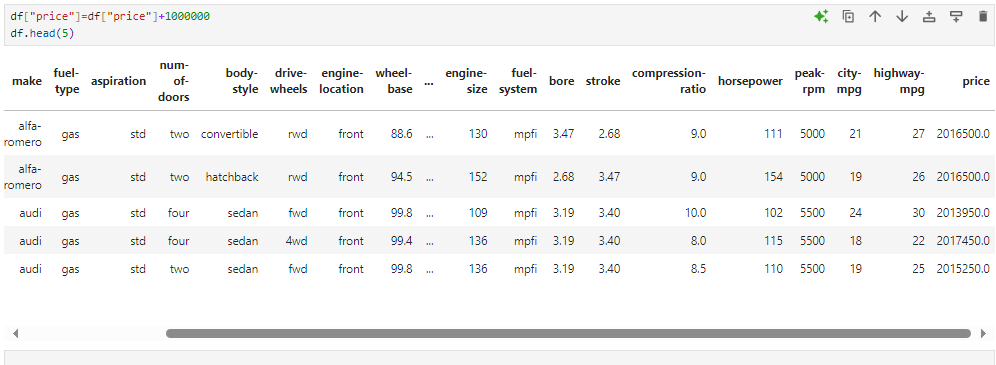
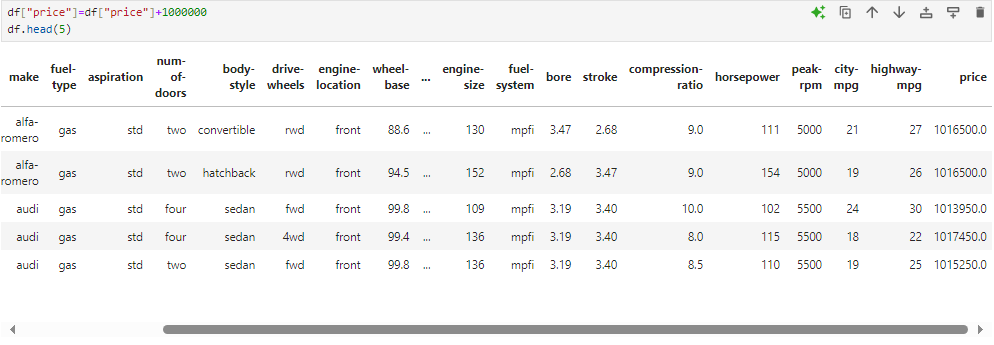
Added chapter 2

diff --git a/Chapter2.2.md b/Chapter2.2.md
@@ -1,0 +1,43 @@
+# 🌟 Chapter 2: Dealing with Missing Values in Python
+
+The missing values occur when no value is stored for a variable in the observation. In the displayed dataframe, they appear as "?", "N/A", 0 or just a blank cell. In the below representation it appears as "?".  
+![?](image-14.png)  
+
+### How to deal with missing data?
+ **Check with the data collection source if the missing data value is available**
+ **Drop/ Remove the data containing missing values:**
+ - drop the variable or just  
+ - drop the data entry  
+ **Replacing the data** (better option): But it can be less accurate as we have to guess for the value at the entry. Thus techniques can be:
+ - replace it with an average of entire variable (i.e. column). 
+Eg. Like if the average of the values in Normalizes losses is 170, we can replace them with 170.  
+ - replace it based on frequency  
+But what if the values can't be averaged, like with the categorical variables like fuel-type, that doesn't have a numerical data. In such case, we can use the "mode" of the data variable, i.e the most common of the fuel-type across the column, eg gasoline.  
+ - replace it based on other funcctions:  
+ Analysing the other data variables, we can just assign the general possible value for the missing variable.  
+ **Leave it as the missing data**  
+Sometimes, leaving the missing data as it is benificial for certain operations or may not be a major issue.  
+
+### Dropping a missing value  
+This is done using the `dropna()` function. Using it, we can drop an entire row or column consisting of missing value of the desired data variable. For eg., since we're going to analyze the price model in the upcoming content, let's delete the row that has missing value for the data variable `price`. For deleting all the rows or columns with missing values, we have to specify the axis number.  
+For rows, `axis=0`.  
+For columns, `axis=1`.  
+Thus to delete all the rows in a dataframe with missing values, we perform:  
+`df.dropna(subset=["price"], axis=0, inplace=True)`  
+
+If one just wants to return a dataframe with no missing values without altering the originial dataframe altogether (i.e. just returning a copy of modified df), we can avoid the `inplace=True` attribute.  
+
+In some cases, If the placeholder is "`?`" instead of "`NaN`", like in my case, we cannot use the `dropna()` function thus we first need to run the following command.  
+`df.replace({"price": "?"}, pd.NA, inplace=True)`  
+![Before](image-15.png)  
+![Later](image-16.png)  
+
+### Replacing the missing value
+Instead of just dropping the data variables with missing values, filling the elements with missing value with an average value of the certain data vaiable is both convenient and harmless in most cases. To replace the values we use the following syntax for the `replace()` function:  
+`dataframe.replace(missing_value,new_value)`  
+But for that, we need to first assign the mean to a variable `mean`. But before that check with df.dtypes that `normalized-losses`, even though numeric, is denoted as an object. First, by converting it to a numeric data,we find the mean and we replace the missing values by mean as as:  
+`df["normalized-losses"] = df["normalized-losses"].replace(pd.NA, mean)`  
+For some reason, if the above function doesn't work properly, a more specific function to handle the missing values called the `fillna()` is used.  
+`df["normalized-losses"] = df["normalized-losses"].fillna(mean)`
+
+![replace/fillna](image-17.png)

diff --git a/Chapter2.1.md b/Chapter2.1.md
@@ -1,0 +1,20 @@
+# 🌌 Chapter 1: Pre-processing Data in Python
+---
+This module focuses on data preprocessing. It is the process of converting data from one raw form into another format, in order to prepare the data for further analysis after importing. Thus, it is an important step. It is also called as Data Cleaning or Data Wrangling.  
+The learning objectives are:
+- Identifying and handling the missing values, i.e empty entries.
+- Data Formatting: Converting the data of different formats or units into the standardized one using Pandas.
+- Data normalization: Bringing all the data in the similar range for meaningful comparison (using centering / scaling).
+- Data Binning: Creating bigger categories for a set of numerical values. Useful to compare the groups of data.
+- Will see about categorial variables and converting them to numerical values. Useful to make statistical modelling easier.
+
+Basics of Data Formatting:  
+In Python, we perform operations on a datarame along the columns. Each row of the dataframe represents a sample, i.e. the different "used car" in the database. To access a column, specify its name in the indexing.  
+Eg: Using `df["symboling"]`, we can access the column as  
+![symbolling](image-11.png)
+Each column is a Panda series. There are many such ways to manipulate dataframes in Python. For eg. one can add an entry to each value of the column. It's done using the command:  
+`df["price"]=df["price"]+1000000`
+![before](image-12.png)
+![then](image-13.png)
+
+---

diff --git a/Module2.md b/Module2.md
@@ -1,24 +1,6 @@
 # 📚📚 Module 2:
 
-This module focuses on data preprocessing. It is the process of converting data from one raw form into another format, in order to prepare the dta for further analysis. It is also called as Data Cleaning or Data Wrangling.  
-The learning objectives are:
-- Identifying and handling the missing values, i.e empty entries.
-- Data Formatting: Converting the data of different formats or units into the standardized one using Pandas.
-- Data normalization: Bringing all the data in the similar range for meaningful comparison (using centering / scaling).
-- Data Binning: Creating bigger categories for a set of numerical values. Useful to compare the groups of data.
-- Will see about categorial variables and converting them to numerical values. Useful to make statistical modelling easier.
-
-Basics of Data Formatting:  
-In Python, we perform operations on a datarame along the columns. Each row of the dataframe represents a sample, i.e. the different "used car" in the database. To access a column, specify its name in the indexing.  
-Eg: Using `df["symboling"]`, we can access the column as  
-![symbolling](image-11.png)
-Each column is a Panda series. There are many such ways to manipulate dataframes in Python. For eg. one can add an entry to each value of the column. It's done using the command:  
-`df["price"]=df["price"]+1000000`
-![first](image-12.png)
-![second](image-13.png)
-
 ---
-
 
 ## 🌟 [Chapter 1: Preprocessing Data in Python](Chapter2.1.md)
 

diff --git a/README.md b/README.md
@@ -10,7 +10,7 @@ This course teaches us how to use the Python libraries, namely, ***NumPy, Pandas
 - Overview of the Python packages
 - Importing the data and analyzing it
 
-**Module 2: Data Wrangling**:-
+[Module 2: Data Wrangling](Module2.md):-
 - Data Wrangling
 - Pre-processing
 - Dealing with Missing values
